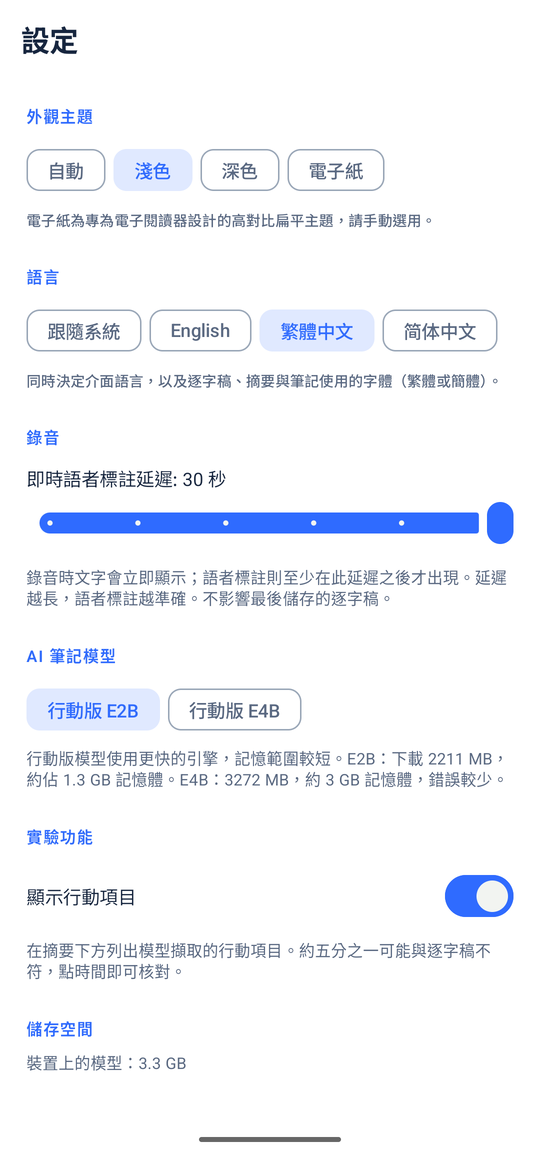
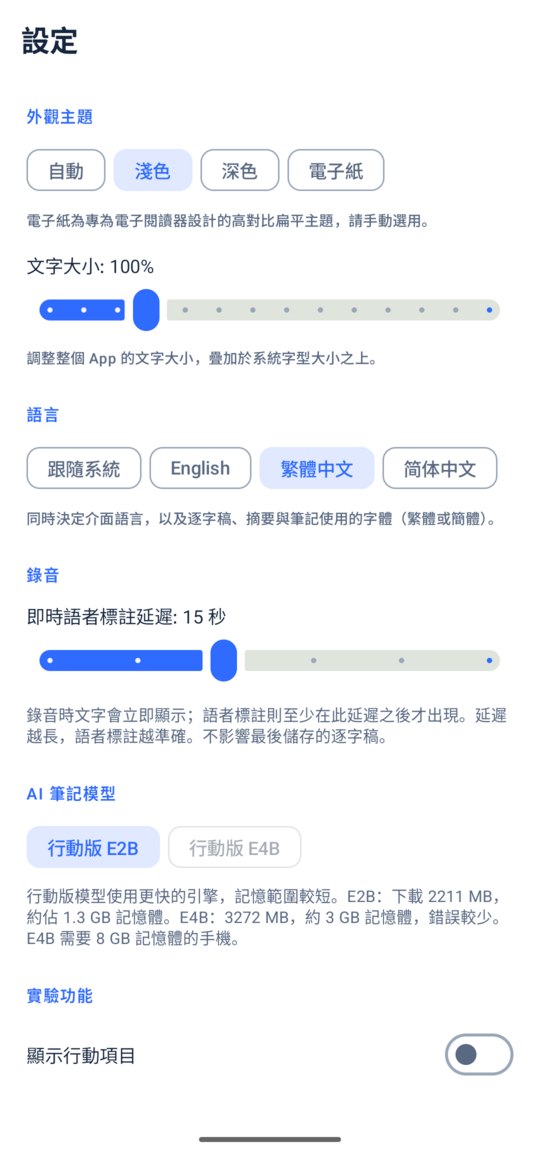
feat(settings): text size slider (85–150 %) scales all text in the app, dialogs and sheets included
Applied through the Material typography, not LocalDensity: dialogs and sheets open in their own
windows, which reset the density but inherit the theme. Settings screenshots, README and user guide
updated.

Claude-Session: https://claude.ai/code/session_01KsCgNEd7UM8Bv5a1a9GKev

diff --git a/app/src/main/java/studio/voxsum/ui/theme/Theme.kt b/app/src/main/java/studio/voxsum/ui/theme/Theme.kt
@@ -9,6 +9,7 @@ import androidx.compose.material3.Shapes
 import androidx.compose.material3.darkColorScheme
 import androidx.compose.material3.lightColorScheme
 import androidx.compose.runtime.Composable
+import androidx.compose.runtime.remember
 import androidx.compose.runtime.CompositionLocalProvider
 import androidx.compose.runtime.SideEffect
 import androidx.compose.runtime.staticCompositionLocalOf
@@ -178,6 +179,11 @@ val LocalLanguageController = staticCompositionLocalOf { LanguageController("aut
 
 val LocalThemeController = staticCompositionLocalOf { ThemeController(ThemeMode.AUTO) {} }
 
+/** The app-wide text scale (over the system font size) and how to change it live. */
+data class FontScaleController(val scale: Float, val set: (Float) -> Unit)
+
+val LocalFontScaleController = staticCompositionLocalOf { FontScaleController(1f) {} }
+
 /**
  * Semantic color for the pipeline status pill, from TYPED state — not by matching English keywords
  * in the localized status text (that left every pill Neutral in fr/zh-rTW). Red on error, Info while
@@ -227,7 +233,7 @@ private val VoxSumShapes = Shapes(
 
 @OptIn(androidx.compose.material3.ExperimentalMaterial3Api::class)
 @Composable
-fun VoxSumTheme(themeMode: ThemeMode = ThemeMode.AUTO, content: @Composable () -> Unit) {
+fun VoxSumTheme(themeMode: ThemeMode = ThemeMode.AUTO, fontScale: Float = 1f, content: @Composable () -> Unit) {
     val pal = when (themeMode) {
         ThemeMode.AUTO -> if (isSystemInDarkTheme()) DarkColors else LightColors
         ThemeMode.LIGHT -> LightColors
@@ -247,7 +253,11 @@ fun VoxSumTheme(themeMode: ThemeMode = ThemeMode.AUTO, content: @Composable () -
         // One call site for every theme: branching here moved the whole app to another place in the
         // composition, so entering or leaving e-ink reset all screen state (the open settings sheet
         // closed, an open session went back to the library).
-        MaterialTheme(colorScheme = schemeFor(pal), shapes = VoxSumShapes) {
+        // The text-size setting scales the typography, not LocalDensity: dialogs and sheets open in their
+        // own windows, which re-provide the window's density but inherit the MaterialTheme.
+        val base = androidx.compose.material3.Typography()
+        val typography = remember(fontScale) { if (fontScale == 1f) base else base.scaled(fontScale) }
+        MaterialTheme(colorScheme = schemeFor(pal), shapes = VoxSumShapes, typography = typography) {
             val ripple = androidx.compose.material3.LocalRippleConfiguration.current
             CompositionLocalProvider(
                 androidx.compose.material3.LocalRippleConfiguration provides (if (themeMode == ThemeMode.EINK) null else ripple),
@@ -256,3 +266,16 @@ fun VoxSumTheme(themeMode: ThemeMode = ThemeMode.AUTO, content: @Composable () -
         }
     }
 }
+
+private fun androidx.compose.ui.text.TextStyle.scaled(f: Float) = copy(
+    fontSize = fontSize * f,
+    lineHeight = lineHeight * f,
+)
+
+private fun androidx.compose.material3.Typography.scaled(f: Float) = copy(
+    displayLarge = displayLarge.scaled(f), displayMedium = displayMedium.scaled(f), displaySmall = displaySmall.scaled(f),
+    headlineLarge = headlineLarge.scaled(f), headlineMedium = headlineMedium.scaled(f), headlineSmall = headlineSmall.scaled(f),
+    titleLarge = titleLarge.scaled(f), titleMedium = titleMedium.scaled(f), titleSmall = titleSmall.scaled(f),
+    bodyLarge = bodyLarge.scaled(f), bodyMedium = bodyMedium.scaled(f), bodySmall = bodySmall.scaled(f),
+    labelLarge = labelLarge.scaled(f), labelMedium = labelMedium.scaled(f), labelSmall = labelSmall.scaled(f),
+)

diff --git a/app/src/main/java/studio/voxsum/ui/SettingsContent.kt b/app/src/main/java/studio/voxsum/ui/SettingsContent.kt
@@ -28,6 +28,7 @@ import androidx.compose.material3.Text
 import androidx.compose.runtime.Composable
 import androidx.compose.runtime.getValue
 import androidx.compose.runtime.mutableIntStateOf
+import androidx.compose.runtime.mutableFloatStateOf
 import androidx.compose.runtime.mutableStateOf
 import androidx.compose.runtime.remember
 import androidx.compose.foundation.interaction.MutableInteractionSource
@@ -90,6 +91,7 @@ fun SettingsContent(
         // (0) Appearance — theme selector (Auto follows the OS; E-ink is a manual e-paper theme).
         Section(stringResource(R.string.settings_appearance))
         AppearanceSelector(enabled)
+        FontScaleSlider(enabled)
 
         // One choice for the interface AND every Chinese text the app produces: the strings switch
         // live, and the Han script (Traditional / Simplified) follows the language.
@@ -206,6 +208,30 @@ private fun AppearanceSelector(enabled: Boolean) {
         color = pal.Slate400,
         modifier = Modifier.padding(top = 2.dp),
     )
+}
+
+/** App-wide text size, 85–150 % of the system font size, in 5 % steps; applies live. */
+@Composable
+private fun FontScaleSlider(enabled: Boolean) {
+    val pal = LocalVoxSumPalette.current
+    val font = studio.voxsum.ui.theme.LocalFontScaleController.current
+    val min = studio.voxsum.core.config.ThemeStore.FONT_MIN
+    val max = studio.voxsum.core.config.ThemeStore.FONT_MAX
+    // Apply on release, not per drag step: every change re-lays out the whole app under the thumb.
+    var draft by remember(font.scale) { mutableFloatStateOf(font.scale) }
+    Column(Modifier.padding(top = 8.dp)) {
+        SliderRow(
+            stringResource(R.string.settings_font_size), draft, min, max, enabled,
+            steps = ((max - min) / 0.05f).roundToInt() - 1,
+            format = { "${(it * 100).roundToInt()}%" },
+            onChangeFinished = { font.set((draft * 20).roundToInt() / 20f) },
+        ) { draft = it }
+        Text(
+            stringResource(R.string.settings_font_size_hint),
+            style = MaterialTheme.typography.labelSmall,
+            color = pal.Slate400,
+        )
+    }
 }
 
 /** The AI-notes model: E2B, or E4B on 8 GB phones. */
@@ -515,6 +541,7 @@ private fun SliderRow(
     label: String, value: Float, from: Float, to: Float, enabled: Boolean,
     steps: Int = 0,
     format: @Composable (Float) -> String = { "%.2f".format(it) },
+    onChangeFinished: (() -> Unit)? = null,
     onChange: (Float) -> Unit,
 ) {
     val pal = LocalVoxSumPalette.current
@@ -528,7 +555,7 @@ private fun SliderRow(
         val colors = voxSumSliderColors()
         val interaction = remember { MutableInteractionSource() }
         Slider(value = value, onValueChange = onChange, valueRange = from..to, enabled = enabled, steps = steps,
-            colors = colors, interactionSource = interaction,
+            onValueChangeFinished = onChangeFinished, colors = colors, interactionSource = interaction,
             // A 48 dp touch target needs a real handle, not the default 4 dp sliver.
             thumb = { SliderDefaults.Thumb(interaction, colors = colors, enabled = enabled, thumbSize = DpSize(20.dp, 32.dp)) })
     }

diff --git a/app/src/main/java/studio/voxsum/MainActivity.kt b/app/src/main/java/studio/voxsum/MainActivity.kt
@@ -339,6 +339,11 @@ class MainActivity : ComponentActivity() {
                 themeMode = mode
                 ThemeStore.save(this, mode)
             }
+            var fontScale by remember { mutableStateOf(ThemeStore.loadFontScale(this)) }
+            val fontController = studio.voxsum.ui.theme.FontScaleController(fontScale) { v ->
+                fontScale = v
+                ThemeStore.saveFontScale(this, v)
+            }
             // The interface language switches live, no recreation: re-provide the context whose
             // resources carry the chosen locale, and Compose's stringResource follows it.
             var langCode by remember { mutableStateOf(studio.voxsum.core.config.AppLanguage.load(this)) }
@@ -354,6 +359,7 @@ class MainActivity : ComponentActivity() {
             CompositionLocalProvider(
                 LocalThemeController provides controller,
                 LocalLanguageController provides langController,
+                studio.voxsum.ui.theme.LocalFontScaleController provides fontController,
                 androidx.compose.ui.platform.LocalContext provides localized,
                 androidx.compose.ui.platform.LocalConfiguration provides remember(localized, realConfig) {
                     // Sizes/orientation come from Compose's own (always current) configuration; only the
@@ -361,7 +367,7 @@ class MainActivity : ComponentActivity() {
                     android.content.res.Configuration(realConfig).also { it.setLocales(localized.resources.configuration.locales) }
                 },
             ) {
-                VoxSumTheme(themeMode) {
+                VoxSumTheme(themeMode, fontScale) {
                     Surface(Modifier.fillMaxSize(), color = MaterialTheme.colorScheme.background) {
                         if (!studio.voxsum.core.power.CpuSupport.hasDotProd) {
                             Box(Modifier.fillMaxSize().padding(32.dp), contentAlignment = Alignment.Center) {

diff --git a/app/src/main/java/studio/voxsum/core/config/ThemeStore.kt b/app/src/main/java/studio/voxsum/core/config/ThemeStore.kt
@@ -20,4 +20,18 @@ object ThemeStore {
         context.getSharedPreferences(PREFS, Context.MODE_PRIVATE)
             .edit().putString(KEY, mode.name).apply()
     }
+
+    private const val KEY_FONT = "fontScale"
+    const val FONT_MIN = 0.85f
+    const val FONT_MAX = 1.5f
+
+    /** The app-wide text scale, multiplied over the system font size. */
+    fun loadFontScale(context: Context): Float =
+        context.getSharedPreferences(PREFS, Context.MODE_PRIVATE)
+            .getFloat(KEY_FONT, 1f).coerceIn(FONT_MIN, FONT_MAX)
+
+    fun saveFontScale(context: Context, scale: Float) {
+        context.getSharedPreferences(PREFS, Context.MODE_PRIVATE)
+            .edit().putFloat(KEY_FONT, scale).apply()
+    }
 }

diff --git a/docs/USER_GUIDE.md b/docs/USER_GUIDE.md
@@ -191,15 +191,16 @@ flowchart TD
 | 節點 | 預期結果 | 驗證 |
 |---|---|---|
 | 外觀主題：自動／淺色／深色／電子紙 | 立即套用 | ✅ 自動（SettingsContentTest） |
+| 文字大小（85–150%） | 整個 App 的文字（含對話框）立即放大或縮小，疊加於系統字型大小；重新開啟 App 後保留 | ✅ 手動 |
 | 語言：跟隨系統／English／繁體中文／简体中文 | 介面與產生的文字一起切換 | ✅ 手動、✅ 自動（SettingsContentTest） |
 | 即時語者標註延遲（5–30 秒） | 錄音時語者標籤出現的延遲；重新開啟 App 後保留 | ✅ 手動 |
 | AI 筆記模型：行動版 E2B／行動版 E4B | 下次閱讀時使用所選模型（未下載時先下載）；E4B 只在 RAM 8 GB 以上的手機可選 | ✅ 手動（Note 10+：E2B、E4B） |
 | 實驗功能：顯示行動項目 | 摘要下方出現行動項目卡片 | ✅ 手動 |
 | 儲存空間：模型與刪除 | 顯示用量；刪除前確認「刪除這個模型？」，刪除後下次使用時重新下載 | ✅ 手動 |
-
-<img src="guide/28-model-delete.png" width="270" alt="刪除模型確認">
 | 背景可靠性：允許背景執行 | 系統的電池最佳化例外對話框 | ✅ 手動（Note 10+，首次錄音時出現） |
 | 關於：檢查更新、GitHub | 顯示「已是最新版本」或更新橫幅 | ✅ 手動（檢查更新）、✅ 自動（SettingsContentTest，版本號） |
+
+<img src="guide/28-model-delete.png" width="270" alt="刪除模型確認">
 
 ## 10. 中斷錄音的復原
 

diff --git a/README.md b/README.md
@@ -53,7 +53,7 @@
 
 **匯入**：首頁 **＋** 可加入手機上的音訊檔、Podcast、YouTube，或從其他 App 分享音訊過來。
 
-**設定**：外觀（自動、淺色、深色、電子紙）、語言（English、繁體中文、简体中文，介面與產生的文字一起切換）、語者標註延遲、AI 筆記模型（E2B，或 8 GB 手機可選 E4B）、模型管理。
+**設定**：外觀（自動、淺色、深色、電子紙）、文字大小（85–150%，整個 App）、語言（English、繁體中文、简体中文，介面與產生的文字一起切換）、語者標註延遲、AI 筆記模型（E2B，或 8 GB 手機可選 E4B）、模型管理。
 
 <details>
 <summary>更多畫面：匯出、重新處理、設定、匯入</summary>
